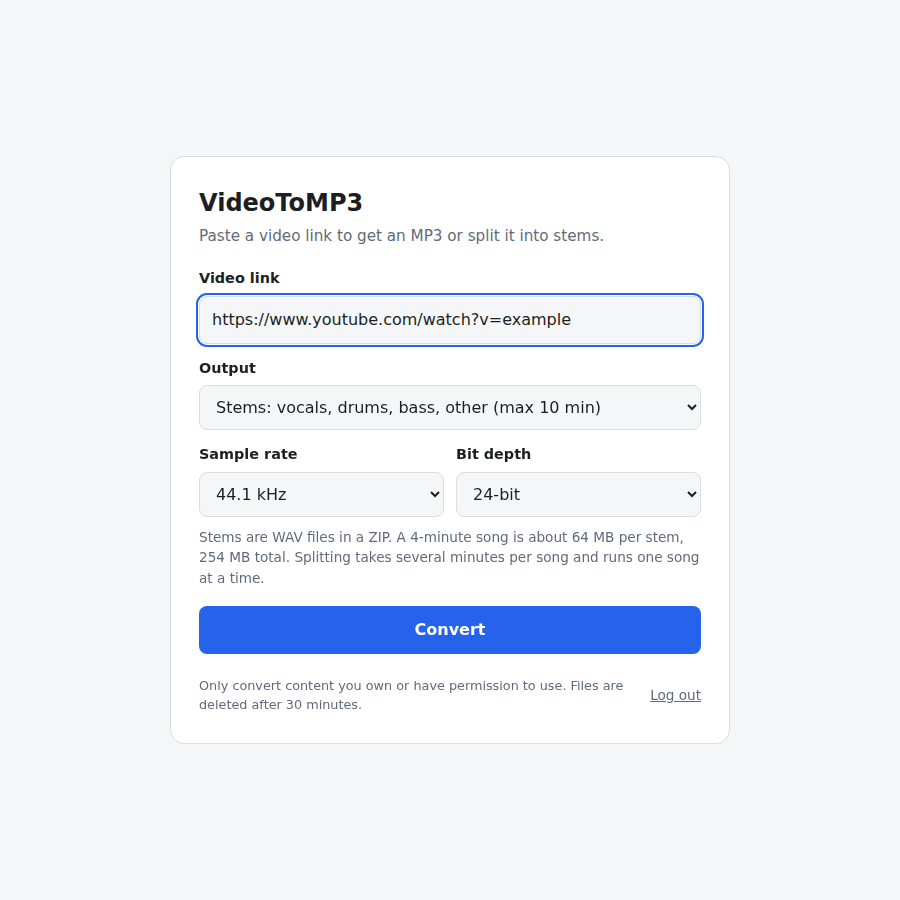
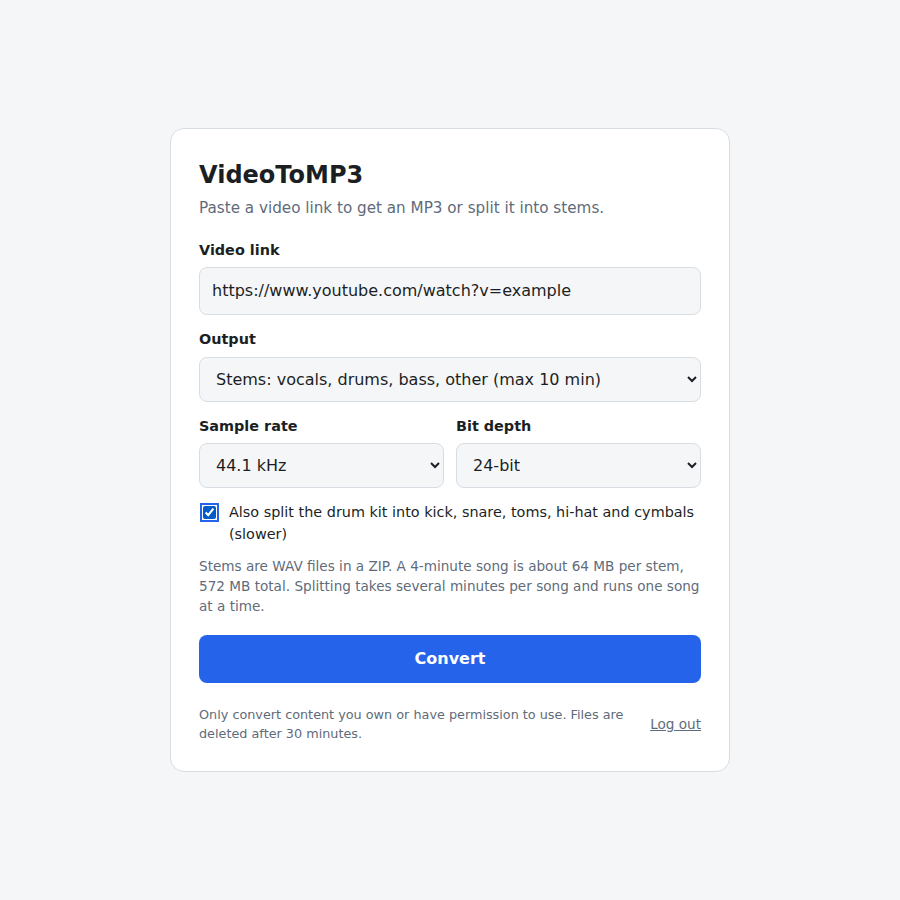
VideoToMP3: optional drum-kit splitting with LarsNet
- New checkbox for 4/6-stem jobs: splits drums.wav into kick, snare,
  toms, hi-hat and cymbals; full drum stem is kept
- web/drum_split.py wraps LarsNet, feeding ~12 s chunks a few at a
  time to cap memory (output verified identical to LarsNet's own path)
- Weights load with torch weights_only=True; a one-time
  --prepare-weights step converts older checkpoints
- LarsNet code is not vendored: README installs it at a pinned commit
  and notes the CC BY-NC 4.0 weight license
- Shared run_tool() handles progress, timeout and errors for both tools

Claude-Session: https://claude.ai/code/session_01BzMTpw7RP9BRJtqVdCeDMD

Changed region(s): [[0.2178, 0.1556, 0.7778, 0.84], [0.7778, 0.3422, 0.8089, 0.3733]]

diff --git a/VideoToMP3/web/templates/index.html b/VideoToMP3/web/templates/index.html
@@ -46,6 +46,12 @@
         </select>
       </div>
     </div>
+    {% if drums_enabled %}
+    <label class="check hidden" id="drums-row">
+      <input type="checkbox" id="drums">
+      Also split the drum kit into kick, snare, toms, hi-hat and cymbals (slower)
+    </label>
+    {% endif %}
     <p class="note">Stems are WAV files in a ZIP. <span id="size"></span>
       Splitting takes several minutes per song and runs one song at a time.</p>
   </div>
@@ -72,7 +78,8 @@ const mode = $("mode");
 function selectedMode() { return mode ? mode.value : "mp3"; }
 function updateSize() {
   if (!$("size")) return;
-  const count = {stems2: 2, stems4: 4, stems6: 6}[selectedMode()] || 4;
+  const drumsOn = $("drums") && !$("drums-row").classList.contains("hidden") && $("drums").checked;
+  const count = ({stems2: 2, stems4: 4, stems6: 6}[selectedMode()] || 4) + (drumsOn ? 5 : 0);
   const bytes = $("depth").value === "16" ? 2 : $("depth").value === "24" ? 3 : 4;
   const perStemMB = 240 * Number($("rate").value) * 2 * bytes / 1e6;  // 4-minute stereo song
   $("size").textContent = "A 4-minute song is about " + Math.round(perStemMB) + " MB per stem, " +
@@ -83,10 +90,12 @@ if (mode) {
     const stems = selectedMode() !== "mp3";
     $("mp3-opts").classList.toggle("hidden", stems);
     $("stem-opts").classList.toggle("hidden", !stems);
+    if ($("drums-row")) $("drums-row").classList.toggle("hidden", !["stems4", "stems6"].includes(selectedMode()));
     updateSize();
   });
   $("rate").addEventListener("change", updateSize);
   $("depth").addEventListener("change", updateSize);
+  if ($("drums")) $("drums").addEventListener("change", updateSize);
   updateSize();
 }
 
@@ -106,7 +115,8 @@ form.addEventListener("submit", async e => {
       body: JSON.stringify({url: $("url").value, quality: $("quality").value,
                             mode: selectedMode(),
                             rate: $("rate") ? $("rate").value : "44100",
-                            depth: $("depth") ? $("depth").value : "24"})
+                            depth: $("depth") ? $("depth").value : "24",
+                            drums: !!($("drums") && !$("drums-row").classList.contains("hidden") && $("drums").checked)})
     });
     if (r.status === 401) { location.reload(); return; }
     const data = await r.json();
@@ -135,6 +145,7 @@ async function poll(id) {
       downloading: "Downloading... " + (j.progress || 0) + "%",
       converting: "Converting audio...",
       separating: "Splitting stems... " + (j.progress || 0) + "%",
+      drums: "Splitting drum kit... " + (j.progress || 0) + "%",
       packaging: "Packaging ZIP...",
     }[j.status] || j.status;
     show(text + elapsed);

diff --git a/VideoToMP3/web/templates/base.html b/VideoToMP3/web/templates/base.html
@@ -35,6 +35,8 @@
   .msg { margin-top:12px; font-size:.95rem; word-break:break-word; }
   .err { color:var(--err); } .ok { color:var(--ok); }
   .hidden { display:none; }
+  .check { display:flex; gap:10px; align-items:flex-start; font-weight:400; margin-top:14px; }
+  .check input { width:auto; margin-top:4px; }
   .row { display:grid; grid-template-columns:1fr 1fr; gap:12px; }
   .note { margin:10px 0 0; font-size:.85rem; color:var(--muted); }
   footer { margin-top:22px; font-size:.8rem; color:var(--muted); display:flex;

diff --git a/VideoToMP3/web/app.py b/VideoToMP3/web/app.py
@@ -62,6 +62,33 @@ STEM_DEPTHS = {"16": "pcm_s16le", "24": "pcm_s24le", "32f": "pcm_f32le"}
 DEFAULT_RATE, DEFAULT_DEPTH = "44100", "24"
 STEMS6_ENABLED = os.environ.get("VTM_STEMS6", "1") == "1"
 
+# Drum-kit splitting (LarsNet): kick, snare, toms, hi-hat, cymbals.
+LARSNET_DIR = Path(os.environ.get("VTM_LARSNET_DIR", "/opt/larsnet"))
+DRUM_BATCH = os.environ.get("VTM_DRUM_BATCH", "4")
+DRUM_SPLIT_SCRIPT = Path(__file__).resolve().parent / "drum_split.py"
+
+
+def _larsnet_ready() -> tuple[bool, str]:
+    if os.environ.get("VTM_DRUMS", "1") != "1":
+        return False, "off (VTM_DRUMS=0)"
+    if not STEMS_ENABLED:
+        return False, "off (needs stem splitting)"
+    config = LARSNET_DIR / "config.yaml"
+    if not config.is_file():
+        return False, f"off (LarsNet not found in {LARSNET_DIR})"
+    try:
+        import yaml
+        paths = yaml.safe_load(config.read_text())["inference_models"].values()
+    except Exception as exc:  # noqa: BLE001
+        return False, f"off (cannot read {config}: {exc})"
+    missing = [p for p in paths if not (LARSNET_DIR / p).is_file()]
+    if missing:
+        return False, f"off (missing weights: {LARSNET_DIR / missing[0]})"
+    return True, f"on ({LARSNET_DIR})"
+
+
+DRUMS_ENABLED, DRUMS_STATUS = _larsnet_ready()
+
 app = Flask(__name__)
 app.secret_key = os.environ.get("VTM_SECRET_KEY") or secrets.token_hex(32)
 app.config.update(SESSION_COOKIE_HTTPONLY=True, SESSION_COOKIE_SAMESITE="Lax",
@@ -180,21 +207,12 @@ def convert_stem(src: Path, dst: Path, rate: str, depth: str) -> None:
                    check=True, capture_output=True, timeout=600)
 
 
-def run_demucs(job_id: str, job_dir: Path, source: Path, mode: str) -> Path:
-    """Run Demucs in a child process so its memory is freed when it exits."""
-    model, two_stems = STEM_MODES[mode]
-    out_dir = job_dir / "stems"
-    # 32-bit float output keeps full precision until the final conversion.
-    cmd = [sys.executable, "-m", "demucs", "-n", model, "-o", str(out_dir),
-           "--filename", "{stem}.{ext}", "-j", "1", "--float32"]
-    if STEM_DEVICE:
-        cmd += ["-d", STEM_DEVICE]
-    if two_stems:
-        cmd += ["--two-stems", two_stems]
-    cmd.append(str(source))
+def run_tool(job_id: str, job_dir: Path, cmd: list[str], what: str,
+             passes_expected: int = 1) -> None:
+    """Run a separation tool in a low-priority child process, tracking its progress bar.
 
-    # Fine-tuned models ("_ft") are a bag of 4 models, so the progress bar runs 4 times.
-    passes_expected = 4 if model.endswith("_ft") else 1
+    A child process frees all of the model's memory when it exits.
+    """
     passes, last_pct, tail = 0, 0, deque(maxlen=15)
     proc = subprocess.Popen(cmd, stdout=subprocess.DEVNULL, stderr=subprocess.PIPE,
                             preexec_fn=(lambda: os.nice(10)) if os.name == "posix" else None)
@@ -224,14 +242,46 @@ def run_demucs(job_id: str, job_dir: Path, source: Path, mode: str) -> Path:
         timer.cancel()
     if code != 0:
         if code < 0:
-            raise RuntimeError("Stem splitting took too long and was stopped.")
+            raise RuntimeError(f"{what} took too long and was stopped.")
         detail = next((l for l in reversed(tail) if "Error" in l), tail[-1] if tail else "")
-        raise RuntimeError(f"Stem splitting failed. {detail}"[:300])
+        raise RuntimeError(f"{what} failed. {detail}"[:300])
+
+
+def run_demucs(job_id: str, job_dir: Path, source: Path, mode: str) -> Path:
+    model, two_stems = STEM_MODES[mode]
+    out_dir = job_dir / "stems"
+    # 32-bit float output keeps full precision until the final conversion.
+    cmd = [sys.executable, "-m", "demucs", "-n", model, "-o", str(out_dir),
+           "--filename", "{stem}.{ext}", "-j", "1", "--float32"]
+    if STEM_DEVICE:
+        cmd += ["-d", STEM_DEVICE]
+    if two_stems:
+        cmd += ["--two-stems", two_stems]
+    cmd.append(str(source))
+    # Fine-tuned models ("_ft") are a bag of 4 models, so the progress bar runs 4 times.
+    run_tool(job_id, job_dir, cmd, "Stem splitting", 4 if model.endswith("_ft") else 1)
     model_dir = out_dir / model
     return model_dir if model_dir.is_dir() else out_dir
 
 
-def run_stem_job(job_id: str, url: str, mode: str, rate: str, depth: str) -> None:
+def split_drums(job_id: str, job_dir: Path, stem_dir: Path) -> None:
+    """Replace nothing; add drums-kick.wav, drums-snare.wav, ... next to drums.wav."""
+    drums = stem_dir / "drums.wav"
+    if not drums.exists():
+        return
+    parts_dir = job_dir / "drumparts"
+    cmd = [sys.executable, "-I", str(DRUM_SPLIT_SCRIPT), "--larsnet-dir", str(LARSNET_DIR),
+           "--batch", DRUM_BATCH, str(drums), str(parts_dir)]
+    if STEM_DEVICE:
+        cmd += ["--device", STEM_DEVICE]
+    run_tool(job_id, job_dir, cmd, "Drum splitting")
+    for part in parts_dir.glob("*.wav"):
+        part.rename(stem_dir / f"drums-{part.stem}.wav")
+    shutil.rmtree(parts_dir, ignore_errors=True)
+
+
+def run_stem_job(job_id: str, url: str, mode: str, rate: str, depth: str,
+                 drums: bool) -> None:
     with jobs_lock:
         if job_id in stem_queue:
             stem_queue.remove(job_id)
@@ -257,6 +307,9 @@ def run_stem_job(job_id: str, url: str, mode: str, rate: str, depth: str) -> Non
         jobs[job_id].update(status="separating", progress=0)
         stem_dir = run_demucs(job_id, job_dir, source, mode)
         source.unlink(missing_ok=True)
+        if drums:
+            jobs[job_id].update(status="drums", progress=0)
+            split_drums(job_id, job_dir, stem_dir)
 
         jobs[job_id].update(status="packaging", progress=99)
         stems = sorted(p for p in stem_dir.iterdir() if p.suffix == ".wav")
@@ -304,7 +357,7 @@ def index():
         return render_template("login.html", error=None)
     return render_template("index.html", max_min=MAX_DURATION_MIN, ttl_min=FILE_TTL_SEC // 60,
                            stems_enabled=STEMS_ENABLED, stem_max_min=STEM_MAX_DURATION_MIN,
-                           stems6_enabled=STEMS6_ENABLED)
+                           stems6_enabled=STEMS6_ENABLED, drums_enabled=DRUMS_ENABLED)
 
 
 @app.post("/login")
@@ -333,6 +386,7 @@ def convert():
     mode = str(data.get("mode", "mp3"))
     rate = str(data.get("rate", DEFAULT_RATE))
     depth = str(data.get("depth", DEFAULT_DEPTH))
+    drums = data.get("drums") is True
     if mode != "mp3" and (mode not in STEM_MODES or not STEMS_ENABLED):
         return jsonify(error="Stem splitting is not available."), 400
     if not url.startswith(("http://", "https://")) or len(url) > 2000:
@@ -343,6 +397,8 @@ def convert():
         quality = "192"
     if mode == "stems6" and not STEMS6_ENABLED:
         return jsonify(error="6-stem splitting is turned off."), 400
+    if drums and (not DRUMS_ENABLED or mode not in ("stems4", "stems6")):
+        return jsonify(error="Drum splitting is not available for this option."), 400
     if rate not in STEM_RATES:
         rate = DEFAULT_RATE
     if depth not in STEM_DEPTHS:
@@ -365,7 +421,7 @@ def convert():
     with jobs_lock:
         jobs[job_id] = {"status": "queued", "progress": 0}
         stem_queue.append(job_id)
-    stem_executor.submit(run_stem_job, job_id, url, mode, rate, depth)
+    stem_executor.submit(run_stem_job, job_id, url, mode, rate, depth, drums)
     return jsonify(id=job_id)
 
 
@@ -410,6 +466,7 @@ HAS_SOXR = _has_soxr()
 if not ACCESS_CODE:
     print("WARNING: VTM_ACCESS_CODE is not set. Anyone who finds the site can use it.")
 print(f"Stem splitting: {'on (' + STEM_MODEL + ')' if STEMS_ENABLED else 'off (demucs not installed)'}")
+print(f"Drum splitting: {DRUMS_STATUS}")
 threading.Thread(target=cleanup_loop, daemon=True).start()
 
 if __name__ == "__main__":

diff --git a/VideoToMP3/web/drum_split.py b/VideoToMP3/web/drum_split.py
@@ -1,0 +1,104 @@
+"""Split a drum stem into kick, snare, toms, hi-hat and cymbals with LarsNet.
+
+LarsNet (https://github.com/polimi-ispl/larsnet) is not bundled; see README.
+Its pretrained weights are licensed CC BY-NC 4.0 (non-commercial use only).
+
+Run by the web app in a child process:
+    python drum_split.py --larsnet-dir /opt/larsnet DRUMS.wav OUT_DIR
+
+One-time setup after downloading the weights:
+    python drum_split.py --larsnet-dir /opt/larsnet --prepare-weights
+"""
+
+import argparse
+import contextlib
+import functools
+import io
+import os
+import sys
+from pathlib import Path
+
+
+def load_larsnet(larsnet_dir: Path, device: str):
+    sys.path.insert(0, str(larsnet_dir))
+    os.chdir(larsnet_dir)  # config.yaml uses paths relative to the LarsNet folder
+    import torch
+    # Only load plain tensors at runtime; --prepare-weights converts the checkpoints.
+    torch.load = functools.partial(torch.load, weights_only=True)
+    from larsnet import LarsNet
+    with contextlib.redirect_stdout(io.StringIO()), contextlib.redirect_stderr(io.StringIO()):
+        return LarsNet(wiener_filter=False, device=device, config="config.yaml")
+
+
+def prepare_weights(larsnet_dir: Path) -> None:
+    """Re-save each checkpoint as tensors only, so it loads with weights_only=True."""
+    import torch
+    import yaml
+    config = yaml.safe_load((larsnet_dir / "config.yaml").read_text())
+    for stem, rel in config["inference_models"].items():
+        path = larsnet_dir / rel
+        try:
+            ckpt = torch.load(path, map_location="cpu", weights_only=True)
+            print(f"{stem}: already safe")
+        except Exception:  # noqa: BLE001
+            # Full unpickling runs only here, on a file you downloaded and chose to trust.
+            ckpt = torch.load(path, map_location="cpu", weights_only=False)
+            print(f"{stem}: converted")
+        torch.save({"model_state_dict": ckpt["model_state_dict"]}, path)
+
+
+def separate(larsnet_dir: Path, inp: Path, out: Path, device: str, batch: int) -> None:
+    import soundfile as sf
+    import torch
+
+    net = load_larsnet(larsnet_dir, device)
+    audio, sr = sf.read(str(inp), dtype="float32", always_2d=True)
+    if sr != net.sr:
+        raise SystemExit(f"Expected {net.sr} Hz input, got {sr} Hz")
+    x = torch.from_numpy(audio.T.copy())
+    if x.size(0) == 1:
+        x = x.repeat(2, 1)
+    x = x[:2].unsqueeze(0).to(device)  # (1, 2, samples)
+
+    out.mkdir(parents=True, exist_ok=True)
+    stems = list(net.models.items())
+    with torch.no_grad():
+        for i, (stem, model) in enumerate(stems):
+            # Same steps as LarsNet's UNetWaveform.forward, but the ~12 s chunks go
+            # through the network a few at a time instead of all at once, which keeps
+            # memory use flat for long songs. Chunks are independent, so output is identical.
+            u = model.utils
+            mag, phase = u.batch_stft(x)
+            folded = u.fold_unet_inputs(mag)
+            masks = []
+            for j in range(0, folded.size(0), batch):
+                part = u.trim_freq_dim(folded[j:j + batch])
+                masks.append(u.pad_freq_dim(model.produce_mask(part)))
+                done = min(j + batch, folded.size(0)) / folded.size(0)
+                print(f"\r{int(100 * (i + done) / len(stems))}%|", end="", file=sys.stderr, flush=True)
+            mag_hat = u.unfold_unet_outputs(folded * torch.cat(masks), mag.size())
+            y = u.batch_istft(mag_hat, phase, trim_length=x.size(-1)).squeeze(0)
+            sf.write(str(out / f"{stem}.wav"), y.cpu().numpy().T, net.sr, subtype="FLOAT")
+    print(file=sys.stderr)
+
+
+def main() -> None:
+    ap = argparse.ArgumentParser(description=__doc__.split("\n")[0])
+    ap.add_argument("input", nargs="?")
+    ap.add_argument("output_dir", nargs="?")
+    ap.add_argument("--larsnet-dir", required=True, type=Path)
+    ap.add_argument("--device", default="cpu")
+    ap.add_argument("--batch", type=int, default=4, help="chunks per pass (memory vs speed)")
+    ap.add_argument("--prepare-weights", action="store_true")
+    a = ap.parse_args()
+    larsnet_dir = a.larsnet_dir.resolve()
+    if a.prepare_weights:
+        prepare_weights(larsnet_dir)
+        return
+    if not a.input or not a.output_dir:
+        ap.error("input and output_dir are required")
+    separate(larsnet_dir, Path(a.input).resolve(), Path(a.output_dir).resolve(), a.device, a.batch)
+
+
+if __name__ == "__main__":
+    main()

diff --git a/VideoToMP3/README.md b/VideoToMP3/README.md
@@ -167,7 +167,7 @@ Stems are always WAV, delivered as a ZIP. Visitors choose:
 Demucs separates at 44.1 kHz internally and writes 32-bit float; the app then
 converts each stem to the chosen format with ffmpeg (SoX resampler when
 available). Rates above 44.1 kHz are upsampled, so they add no detail; 48 kHz
-is useful for video projects. Drums are not split into kick/snare/hats.
+is useful for video projects. Drums can optionally be split further (next section).
 
 ```sh
 # 1. CPU-only PyTorch (about 1 GB; the default build adds ~4 GB of GPU libraries)
@@ -198,6 +198,55 @@ How it behaves:
 - `VTM_STEMS6=0` hides the 6-stem option.
 - WAV ZIPs are large: a 4-minute song at 24-bit/44.1 kHz is about 64 MB per stem
   (about 254 MB for 4 stems). At 32-bit float/96 kHz it is about 184 MB per stem.
+
+## Drum-kit splitting (optional)
+
+Adds a checkbox for the 4- and 6-stem options that also splits the drum stem
+into **kick, snare, toms, hi-hat and cymbals** using
+[LarsNet](https://github.com/polimi-ispl/larsnet). The full `drums.wav` stays
+in the ZIP next to `drums-kick.wav`, `drums-snare.wav`, and so on.
+
+**License:** LarsNet's pretrained weights are CC BY-NC 4.0, non-commercial use
+only. LarsNet's code is not copied into this repository; it is downloaded
+during install.
+
+Requires stem splitting (previous section) to be installed first.
+
+```sh
+# 1. LarsNet code, pinned to a tested version
+sudo apt install -y unzip
+sudo git clone https://github.com/polimi-ispl/larsnet.git /opt/larsnet
+sudo git -C /opt/larsnet checkout 17d631fd18e77ee2f1d23ee7b3fc0fb46ae629e2
+sudo /opt/videotomp3/.venv/bin/pip install -r /opt/videotomp3/requirements-drums.txt
+
+# 2. Pretrained weights (562 MB, hosted on Google Drive by the authors)
+sudo /opt/videotomp3/.venv/bin/pip install gdown
+sudo /opt/videotomp3/.venv/bin/gdown 1U8-5924B1ii1cjv9p0MTPzayb00P4qoL -O /tmp/larsnet_models.zip
+#    (If gdown fails, download the zip in a browser from the link in LarsNet's
+#     README and copy it to the server as /tmp/larsnet_models.zip.)
+sudo unzip -q /tmp/larsnet_models.zip -d /tmp/larsnet_models
+KICK=$(find /tmp/larsnet_models -name pretrained_kick_unet.pth)
+sudo cp -r "$(dirname "$(dirname "$KICK")")"/. /opt/larsnet/pretrained_larsnet_models/
+ls /opt/larsnet/pretrained_larsnet_models/*/    # expect 5 folders, one .pth each
+
+# 3. One-time conversion so the site loads the weights in PyTorch's safe mode
+sudo /opt/videotomp3/.venv/bin/python -I /opt/videotomp3/web/drum_split.py \
+    --larsnet-dir /opt/larsnet --prepare-weights
+
+# 4. Restart; the log should say "Drum splitting: on (/opt/larsnet)"
+sudo systemctl restart videotomp3
+journalctl -u videotomp3 -n 20
+```
+
+How it behaves:
+
+- Runs after Demucs, in the same one-at-a-time queue.
+- About 1 minute extra for a 4-minute song on a 4-core CPU; peak memory about 3 GB.
+- Adds 5 WAV files to the ZIP (about 320 MB more for 4 minutes at 24-bit/44.1 kHz).
+- LarsNet was trained on synthesized drum kits, so results on real recordings
+  vary; expect some bleed between hi-hat and cymbals, and between snare and toms.
+- `VTM_DRUM_BATCH` (default 4) sets how many 12-second chunks are processed at
+  once. Lower it if memory is tight. `VTM_DRUMS=0` hides the option.
 
 ## Cleanup cron job (backup)
 
